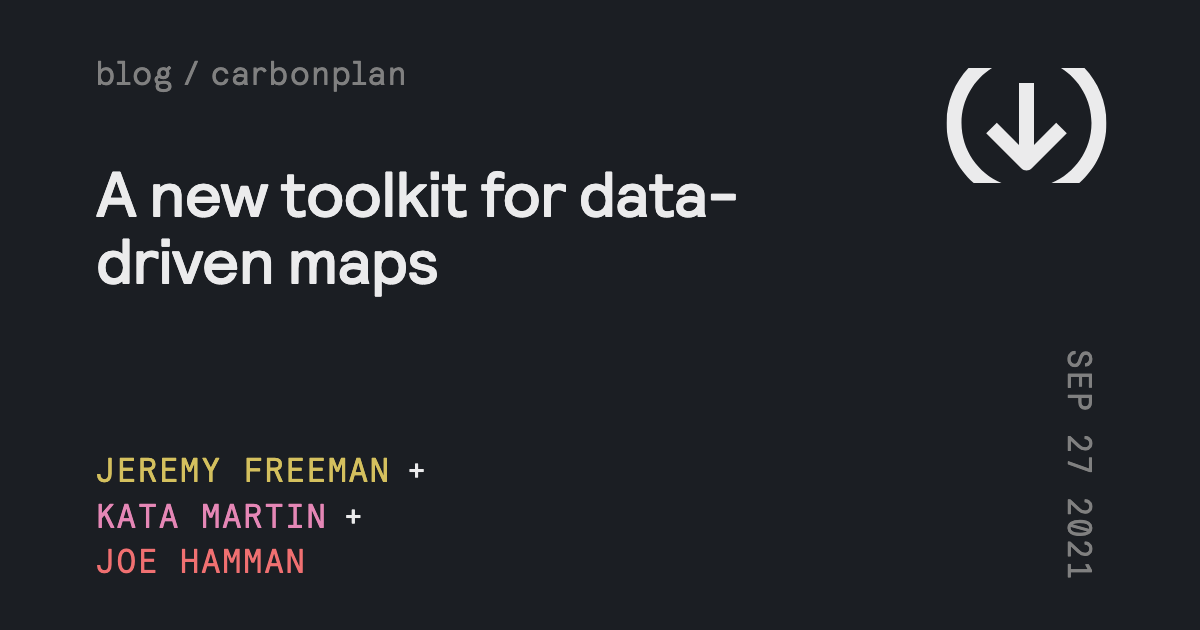
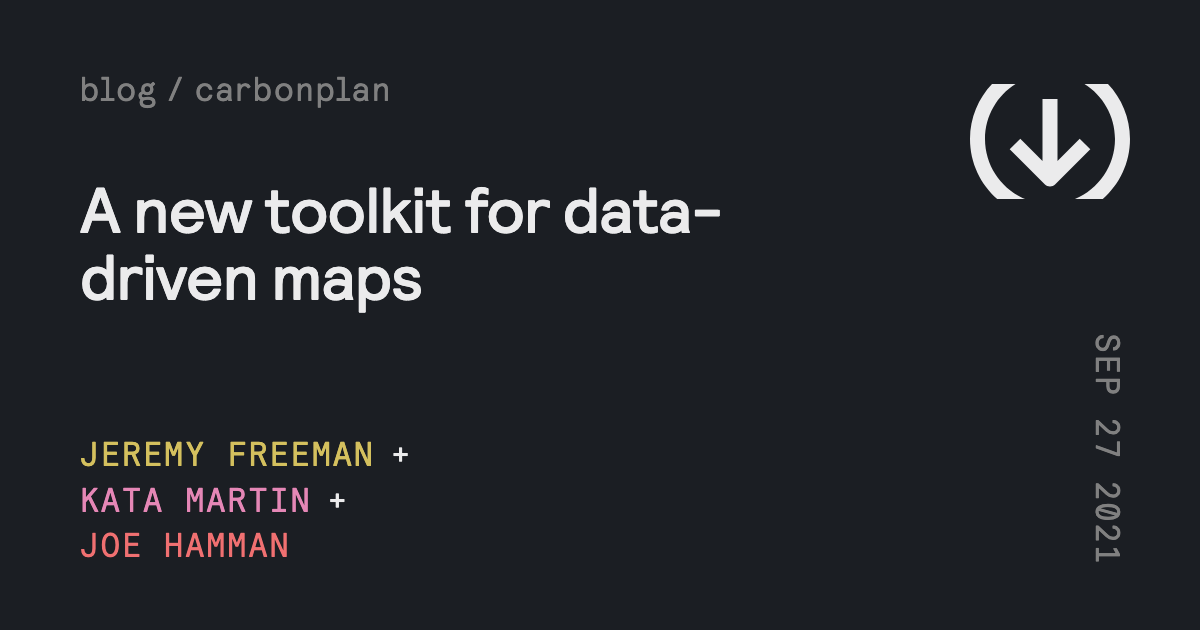
More UI tweaks

diff --git a/pages/cards/[id].js b/pages/cards/[id].js
@@ -9,8 +9,8 @@ const Card = ({ title, authors, date, number }) => {
     <Flex
       sx={{
         flexDirection: 'row',
-        px: [8],
-        py: [6],
+        px: ['80px'],
+        py: [7],
         height: '100vh',
         width: '100vw',
         justifyContent: 'space-between',
@@ -59,7 +59,7 @@ const Card = ({ title, authors, date, number }) => {
       <Box sx={{ flex: '1 0 64px' }} />
 
       <Flex sx={{ flexDirection: 'column', justifyContent: 'space-between' }}>
-        <Monogram sx={{ width: 160, display: 'block' }} />
+        <Monogram sx={{ width: 160, display: 'block', mr: '-10px' }} />
 
         <Text
           sx={{
@@ -72,6 +72,7 @@ const Card = ({ title, authors, date, number }) => {
             whiteSpace: 'nowrap',
             display: 'inline-block',
             overflow: 'visible',
+            mr: '-12px',
           }}
         >
           {formatDate(date, {
